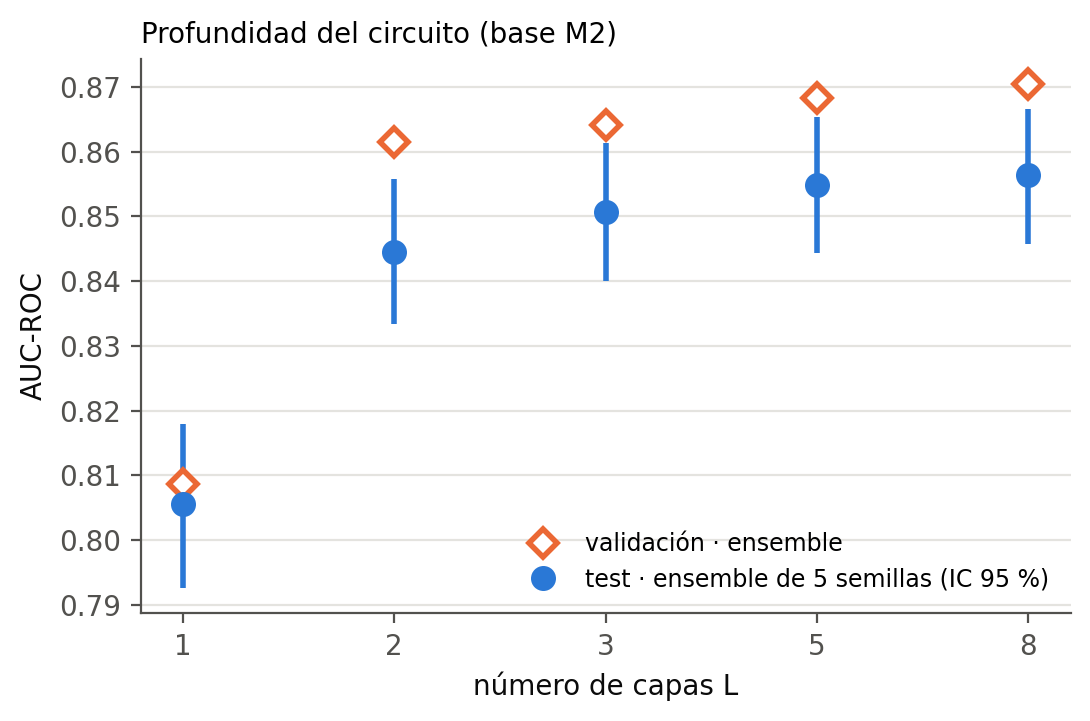
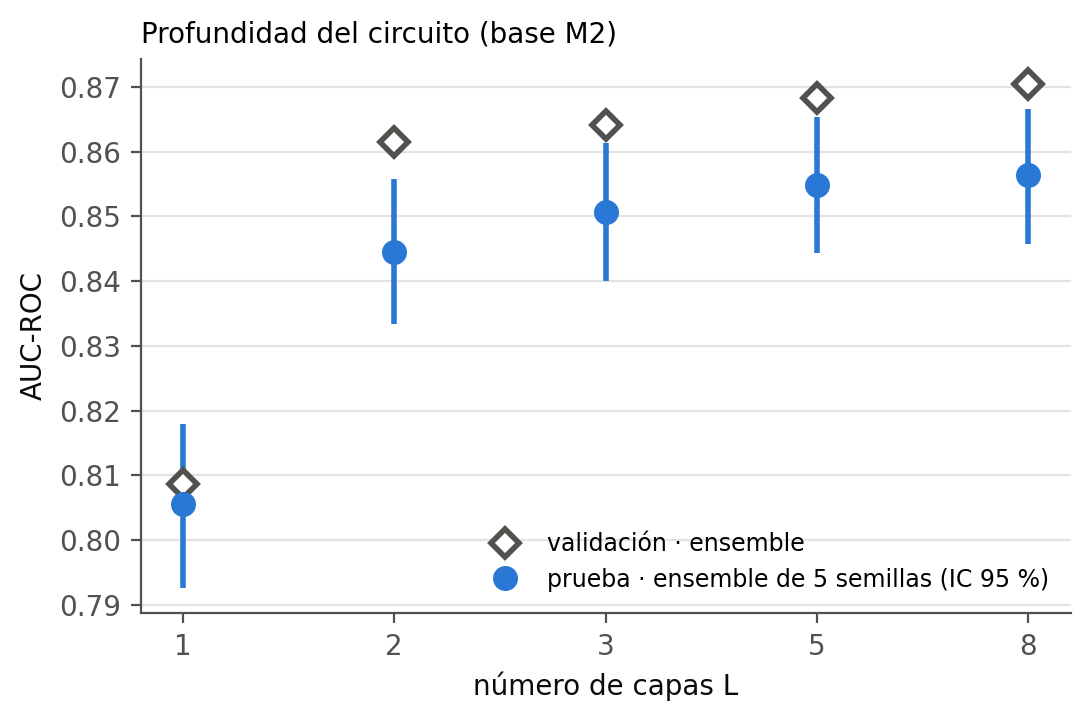
Figuras de la corrida final: rótulos en español, sin four_models, validación en gris y figura de barren plateaus legible

diff --git a/corrida_final/figuras.py b/corrida_final/figuras.py
@@ -33,16 +33,16 @@ def dots(ax, names, labels, val=True, horizontal=False):
     pos = range(len(names))
     if horizontal:
         ax.errorbar(y, pos, xerr=e, fmt="o", ms=8, color=C_TEST, ecolor=C_TEST, elinewidth=2, capsize=0,
-                    label="test · ensemble de 5 semillas (IC 95 %)")
+                    label="prueba · ensemble de 5 semillas (IC 95 %)")
         if val:
-            ax.plot(R.loc[names].val_auc_ens, pos, "D", ms=7, mfc="white", mec=C_VAL, mew=2,
+            ax.plot(R.loc[names].val_auc_ens, pos, "D", ms=7, mfc="white", mec=INK2, mew=2,
                     label="validación · ensemble")
         ax.set_yticks(list(pos), labels); ax.invert_yaxis(); ax.grid(axis="y", visible=False)
     else:
         ax.errorbar(pos, y, yerr=e, fmt="o", ms=8, color=C_TEST, ecolor=C_TEST, elinewidth=2, capsize=0,
-                    label="test · ensemble de 5 semillas (IC 95 %)")
+                    label="prueba · ensemble de 5 semillas (IC 95 %)")
         if val:
-            ax.plot(pos, R.loc[names].val_auc_ens, "D", ms=7, mfc="white", mec=C_VAL, mew=2,
+            ax.plot(pos, R.loc[names].val_auc_ens, "D", ms=7, mfc="white", mec=INK2, mew=2,
                     label="validación · ensemble")
         ax.set_xticks(list(pos), labels); ax.grid(axis="x", visible=False)
 
@@ -51,9 +51,9 @@ def dots(ax, names, labels, val=True, horizontal=False):
 q = ["M1", "M2", "M3-lin", "M3-cua", "M4-lin", "M4-cua"]
 c = [m for m in ("RF", "MLP-73", "LogReg", "SVM lineal") if m in R.index]
 lab = {"M1": "M1 · MinMax + XYZ + BCE", "M2": "M2 · Quantile + XYZ + BCE",
-       "M3-lin": "M3 · fidelidad lineal (Z)", "M3-cua": "M3 · fidelidad cuadrática (Z)",
-       "M4-lin": "M4 · lineal, train+val", "M4-cua": "M4 · cuadrática, train+val",
-       "RF": "Random forest (tuning)", "MLP-73": "MLP-73 (tuning)", "LogReg": "Regresión logística",
+       "M3-lin": "M3 · pérdida lineal (Z)", "M3-cua": "M3 · pérdida cuadrática (Z)",
+       "M4-lin": "M4 · lineal, entren. + valid.", "M4-cua": "M4 · cuadrática, entren. + valid.",
+       "RF": "Random forest (ajustado)", "MLP-73": "MLP-73 (ajustado)", "LogReg": "Regresión logística",
        "SVM lineal": "SVM lineal"}
 fig, ax = plt.subplots(figsize=(7.2, 4.6))
 names = q + c
@@ -65,11 +65,11 @@ for i, (n, col) in enumerate(zip(names, cols)):
     ax.text(R.loc[n].ic95_hi + 0.0015, i, f"{y[n]:.4f}", va="center", fontsize=8.5, color=INK2)
 ax.set_yticks(range(len(names)), [lab[n] for n in names]); ax.invert_yaxis(); ax.grid(axis="y", visible=False)
 ax.axhline(len(q) - 0.5, color=INK2, lw=0.8, ls=":")
-ax.set_xlabel("AUC-ROC en test (ensemble; barras: IC 95 % bootstrap)")
+ax.set_xlabel("AUC de prueba (ensemble; barras: IC 95 % bootstrap)")
 ax.plot([], [], "o", color=C_TEST, label="cuántico (1 qubit, L = 5)")
 ax.plot([], [], "s", color=C_VAL, label="clásico")
 ax.legend(loc="upper left", fontsize=8.5)
-ax.set_title("Diseño firmado M1–M4 frente a los clásicos (split común, 5000 eventos de test)", fontsize=10,
+ax.set_title("Diseño firmado M1–M4 frente a los clásicos (5000 eventos de prueba)", fontsize=10,
              loc="left", color=INK)
 fig.savefig(FIG / "nucleo_y_clasicos.png", dpi=200); plt.close(fig)
 
@@ -81,7 +81,7 @@ fig, ax = plt.subplots(figsize=(7.6, 3.8))
 dots(ax, pn, pl)
 ax.axvline(5.5, color=INK2, lw=0.8, ls=":")
 ax.set_ylabel("AUC-ROC"); ax.legend(loc="lower right", fontsize=8.5)
-ax.set_title("Funciones de pérdida (Quantile, L = 5, receta de four_models)", fontsize=10, loc="left")
+ax.set_title("Funciones de pérdida (Quantile, L = 5)", fontsize=10, loc="left")
 fig.savefig(FIG / "perdidas.png", dpi=200); plt.close(fig)
 
 # 3 · rango angular × inicialización
@@ -92,10 +92,10 @@ for il, col, mk, dx in (("0.05·N", C_TEST, "o", -0.03), ("U[0,1)", C_3, "s", 0.
     y, e = err(names)
     xs = [i + dx for i in range(3)]
     ax.errorbar(xs, y, yerr=e, fmt=mk + "-", ms=8, lw=2, color=col, elinewidth=2, capsize=0,
-                label=f"init {'0.05·N(0,1)' if il == '0.05·N' else 'U[0,1)'}")
+                label=f"inicialización {'0.05·N(0,1)' if il == '0.05·N' else 'U[0,1)'}")
 ax.set_xticks(range(3), [f"h = {h}" for h, _ in hs]); ax.grid(axis="x", visible=False)
-ax.set_ylabel("AUC-ROC en test (IC 95 %)"); ax.legend(fontsize=8.5, loc="lower right")
-ax.set_title("Rango angular [−h, h] × inicialización (base M2)", fontsize=10, loc="left")
+ax.set_ylabel("AUC de prueba (IC 95 %)"); ax.legend(fontsize=8.5, loc="lower right")
+ax.set_title("Rango angular [−h, h] e inicialización (base M2)", fontsize=10, loc="left")
 fig.savefig(FIG / "rango_inicializacion.png", dpi=200); plt.close(fig)
 
 # 4 · capas

diff --git a/corrida_final/figura_bp.py b/corrida_final/figura_bp.py
@@ -10,24 +10,25 @@ import matplotlib
 matplotlib.use("Agg")
 import matplotlib.pyplot as plt  # noqa: E402
 import pandas as pd  # noqa: E402
+from matplotlib.lines import Line2D  # noqa: E402
 
 HERE = Path(__file__).resolve().parent
 D = pd.read_csv(HERE / "barren_plateaus_500" / "barren_plateaus.csv")
 C1, C2, C3 = "#2a78d6", "#eb6834", "#1baf7a"
 INK, INK2, GRID = "#0b0b0b", "#52514e", "#e4e3df"
-plt.rcParams.update({"font.size": 10, "axes.edgecolor": INK2, "xtick.color": INK2, "ytick.color": INK2,
+plt.rcParams.update({"font.size": 16, "axes.edgecolor": INK2, "xtick.color": INK2, "ytick.color": INK2,
                      "axes.spines.top": False, "axes.spines.right": False, "axes.grid": True,
-                     "grid.color": GRID, "legend.frameon": False, "savefig.bbox": "tight"})
+                     "grid.color": GRID, "legend.frameon": False, "axes.titlesize": 15, "savefig.bbox": "tight"})
 
-fig, ax = plt.subplots(1, 3, figsize=(14, 4.2))
+fig, ax = plt.subplots(1, 3, figsize=(14, 4.8))
 A = D[D.scan == "A"]
-for loss, col, lab in (("cerezo", C1, "Cerezo local = fidelidad lineal"), ("fidelity", C3, "fidelidad cuadrática"),
-                       ("bce", C2, "BCE")):
+for loss, col, mk, lab in (("cerezo", C1, "o", "pérdida lineal = costo local"),
+                           ("fidelity", C3, "^", "pérdida cuadrática"), ("bce", INK2, "s", "BCE")):
     s = A[A.loss == loss].sort_values("n_layers")
-    ax[0].semilogy(s.n_layers, s.var_grad, "o-", color=col, lw=2, ms=6, label=lab)
+    ax[0].semilogy(s.n_layers, s.var_grad, mk + "-", color=col, lw=2, ms=7, label=lab)
 ax[0].set(xlabel="número de capas $L$", ylabel=r"$\mathrm{Var}[\partial \mathcal{L}/\partial w]$",
-          title="(a) un qubit: efecto de la profundidad")
-ax[0].legend(fontsize=8)
+          title="(a) un qubit: profundidad")
+ax[0].legend(fontsize=12, loc="center right")
 
 B = D[D.scan == "B"]
 for cost, col, mk, lab in (("global", C2, "s", "costo global"), ("local", C1, "o", "costo local")):
@@ -37,18 +38,24 @@ ref = B[B.cost == "global"].sort_values("n_wires")
 base = float(ref.var_grad.iloc[0]); n0 = int(ref.n_wires.iloc[0])
 ax[1].semilogy(ref.n_wires, base * 4.0 ** -(ref.n_wires - n0), "--", color=INK2, lw=1.2, label=r"referencia $4^{-n}$")
 ax[1].set(xlabel="número de qubits $n$", ylabel=r"$\mathrm{Var}[\partial \mathcal{L}/\partial w]$",
-          title="(b) $L=4$: costo local y global")
-ax[1].legend(fontsize=8)
+          title="(b) $L=4$: número de qubits")
+ax[1].legend(fontsize=13)
 
 Cc = D[D.scan == "C"]
-cols = {2: C1, 4: C2, 6: C3}
+cols = {2: INK, 4: INK2, 6: "#9a9893"}   # grises: el color queda para local/global
 for (n, cost), s in Cc.groupby(["n_wires", "cost"]):
     s = s.sort_values("n_layers")
     ax[2].semilogy(s.n_layers, s.var_grad_mean_params, ("o" if cost == "local" else "s"),
-                   ls="-" if cost == "local" else "--", color=cols[n], lw=2, ms=6, label=f"$n={n}$, costo {cost}")
+                   ls="-" if cost == "local" else "--", color=cols[n], lw=2, ms=6)
+    if cost == "local":
+        ax[2].annotate(f"$n={n}$", (s.n_layers.iloc[-1], s.var_grad_mean_params.iloc[-1]), xytext=(8, 0),
+                       textcoords="offset points", va="center", color=cols[n], fontsize=14)
 ax[2].set(xlabel="número de capas $L$", ylabel=r"$\langle\mathrm{Var}[\partial \mathcal{L}/\partial\theta]\rangle_\theta$",
-          title="(c) separación local/global según $L$")
-ax[2].legend(fontsize=7.5, ncol=2)
+          title="(c) varios qubits: profundidad")
+ax[2].set_xlim(right=9.4); ax[2].set_xticks([1, 2, 4, 8])
+ax[2].legend(handles=[Line2D([], [], color=INK2, ls="-", marker="o", lw=2, label="costo local"),
+                      Line2D([], [], color=INK2, ls="--", marker="s", lw=2, label="costo global")],
+             fontsize=13, loc="lower right")
 fig.tight_layout()
 (HERE / "figuras").mkdir(exist_ok=True)
 fig.savefig(HERE / "figuras" / "barren_plateaus.png", dpi=200)
